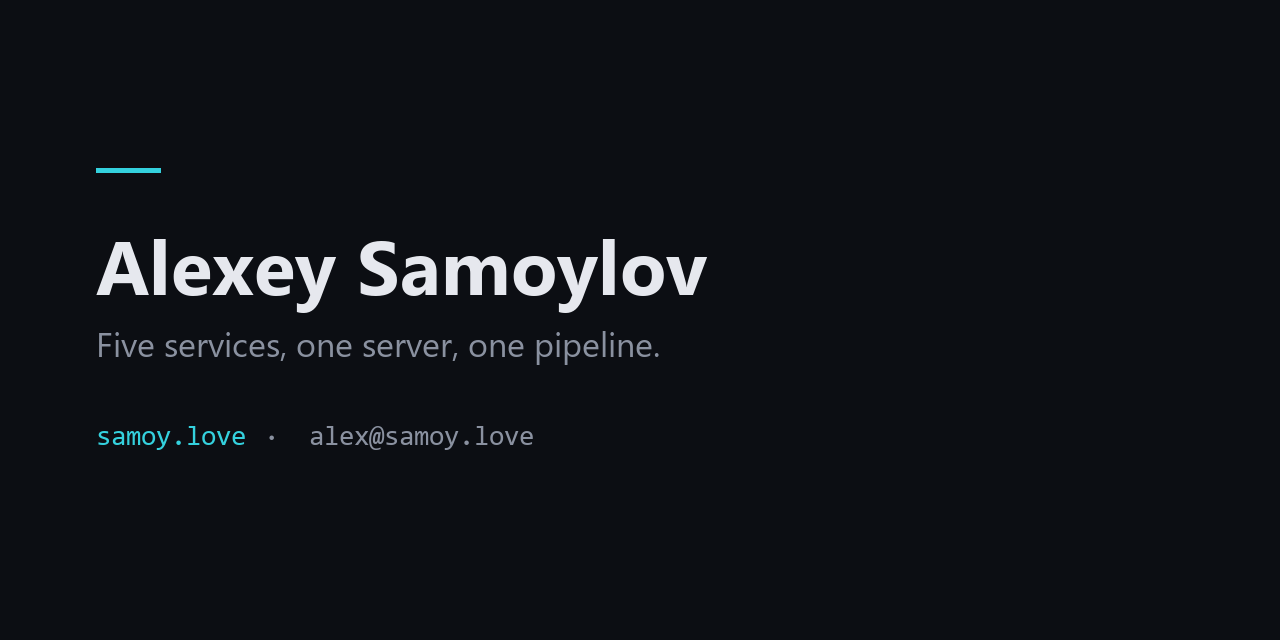
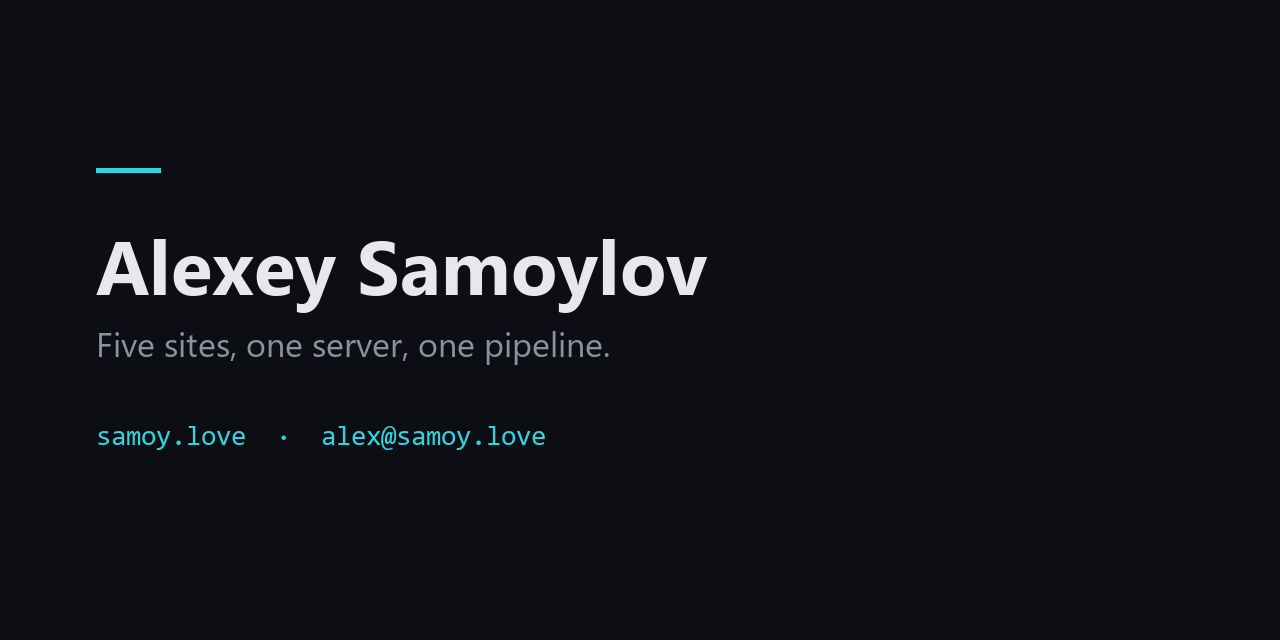
Профиль: починить ссылки на карточках и показать карточку в README (#9)
Карточку видят в превью ссылки — отдельно от текста, который мог бы её
поправить. Поэтому неверная ссылка на ней стоит дороже опечатки: у deploy-kit
стояло status.samoy.love, у metrics — samoy.love, и обе вели читателя не
туда, куда обещал заголовок. Теперь у каждой карточки адрес своего проекта;
у deploy-kit это репозиторий — своего домена у инструмента нет и не должно
быть.

Главная карточка собиралась не этим скриптом и разъехалась с текстом: на ней
осталось «Five services», хотя в README давно «пять сайтов», а сервисов и
сайтов тут разное число. Теперь её делает тот же og.py — один источник
правды, — и она вставлена в оба README: витрина без единого изображения
выглядела заготовкой.

Changed region(s): [[0.125, 0.5312, 0.5312, 0.5625], [0.25, 0.6562, 0.4375, 0.7188]]

diff --git a/assets/og.py b/assets/og.py
@@ -13,6 +13,14 @@ f_sub = ImageFont.truetype(F + "segoeui.ttf", 34)
 f_mono = ImageFont.truetype(F + "consola.ttf", 28)
 
 # repo -> (title, one-line, link, stack)
+#
+# ССЫЛКА — ЭТО АДРЕС ИМЕННО ЭТОГО ПРОЕКТА, а не любой домен под рукой.
+# Карточку видят в превью ссылки, отдельно от текста, который мог бы поправить:
+# у deploy-kit тут стоял status.samoy.love, у metrics — samoy.love, и обе вели
+# читателя не туда, куда обещал заголовок.
+#
+# У deploy-kit своего домена нет и не должно быть — это инструмент, а не сайт,
+# поэтому в поле ссылки стоит репозиторий.
 CARDS = {
     "chillhub": ("ChillHub", "A game launcher for Windows. Updates by diff.",
                  "launcher.samoy.love", "C#  ·  WPF  ·  Go"),
@@ -21,17 +29,23 @@ CARDS = {
     "metro-map": ("Metro", "The Moscow metro map, working offline.",
                   "metro.samoy.love", "React  ·  TypeScript  ·  PWA"),
     "deploy-kit": ("deploy-kit", "The shared release pipeline. Atomic, reversible.",
-                   "status.samoy.love", "Bash  ·  GitHub Actions  ·  systemd"),
+                   "github.com/tr0llex/deploy-kit", "Bash  ·  GitHub Actions  ·  systemd"),
     "status.samoy.love": ("status", "Uptime, versions and incidents.",
                           "status.samoy.love", "Go  ·  Astro"),
     "metrics.samoy.love": ("metrics", "Observability without a client-side tracker.",
-                           "samoy.love", "Prometheus  ·  Grafana  ·  Docker"),
+                           "metrics.samoy.love", "Prometheus  ·  Grafana  ·  Docker"),
 }
+
+# Главная карточка профиля. Раньше она собиралась не этим скриптом и потому
+# разъехалась с текстом: на ней осталось «Five services», хотя в README давно
+# «пять сайтов» — сервисов и сайтов тут разное число. Один источник правды.
+MAIN = ("Alexey Samoylov", "Five sites, one server, one pipeline.",
+        "samoy.love  ·  alex@samoy.love", None)
 
 out = "assets/og"
 os.makedirs(out, exist_ok=True)
 
-for repo, (title, sub, link, stack) in CARDS.items():
+def card(title, sub, link, stack, owner_mark):
     img = Image.new("RGB", (W, H), BG)
     d = ImageDraw.Draw(img)
     x = 96
@@ -39,10 +53,19 @@ for repo, (title, sub, link, stack) in CARDS.items():
     d.text((x, 212), title, font=f_name, fill=TEXT)
     d.text((x, 320), sub, font=f_sub, fill=MUTED)
     d.text((x, 424), link, font=f_mono, fill=ACCENT)
-    d.text((x, 472), stack, font=f_mono, fill=MUTED)
-    # owner mark, bottom right
-    w = d.textlength("samoy.love", font=f_mono)
-    d.text((W - 96 - w, H - 96), "samoy.love", font=f_mono, fill=MUTED)
+    if stack:
+        d.text((x, 472), stack, font=f_mono, fill=MUTED)
+    # owner mark, bottom right — на главной карточке лишний: она и так о нём
+    if owner_mark:
+        w = d.textlength("samoy.love", font=f_mono)
+        d.text((W - 96 - w, H - 96), "samoy.love", font=f_mono, fill=MUTED)
+    return img
+
+
+for repo, (title, sub, link, stack) in CARDS.items():
     p = f"{out}/{repo}.png"
-    img.save(p, "PNG")
+    card(title, sub, link, stack, owner_mark=True).save(p, "PNG")
     print(p)
+
+card(*MAIN, owner_mark=False).save("assets/og.png", "PNG")
+print("assets/og.png")

diff --git a/README.md b/README.md
@@ -6,6 +6,8 @@
 домене `samoy.love` — он читается как фамилия — и катится одним релизным
 путём, с публичной статус-страницей как доказательством.
 
+<img src="assets/og.png" alt="Алексей Самойлов — пять сайтов, один сервер, один пайплайн" width="100%">
+
 [alex@samoy.love](mailto:alex@samoy.love) · [samoy.love](https://samoy.love) · [t.me/tr0llex](https://t.me/tr0llex) · [status.samoy.love](https://status.samoy.love)
 
 ## Продукты

diff --git a/README.en.md b/README.en.md
@@ -6,6 +6,8 @@ Five sites, one server, one pipeline. Everything below runs in production
 under `samoy.love` — the domain reads as my last name — and ships through the
 same release path, with a public status page as the proof.
 
+<img src="assets/og.png" alt="Alexey Samoylov — five sites, one server, one pipeline" width="100%">
+
 [alex@samoy.love](mailto:alex@samoy.love) · [samoy.love](https://samoy.love) · [t.me/tr0llex](https://t.me/tr0llex) · [status.samoy.love](https://status.samoy.love)
 
 ## Products
